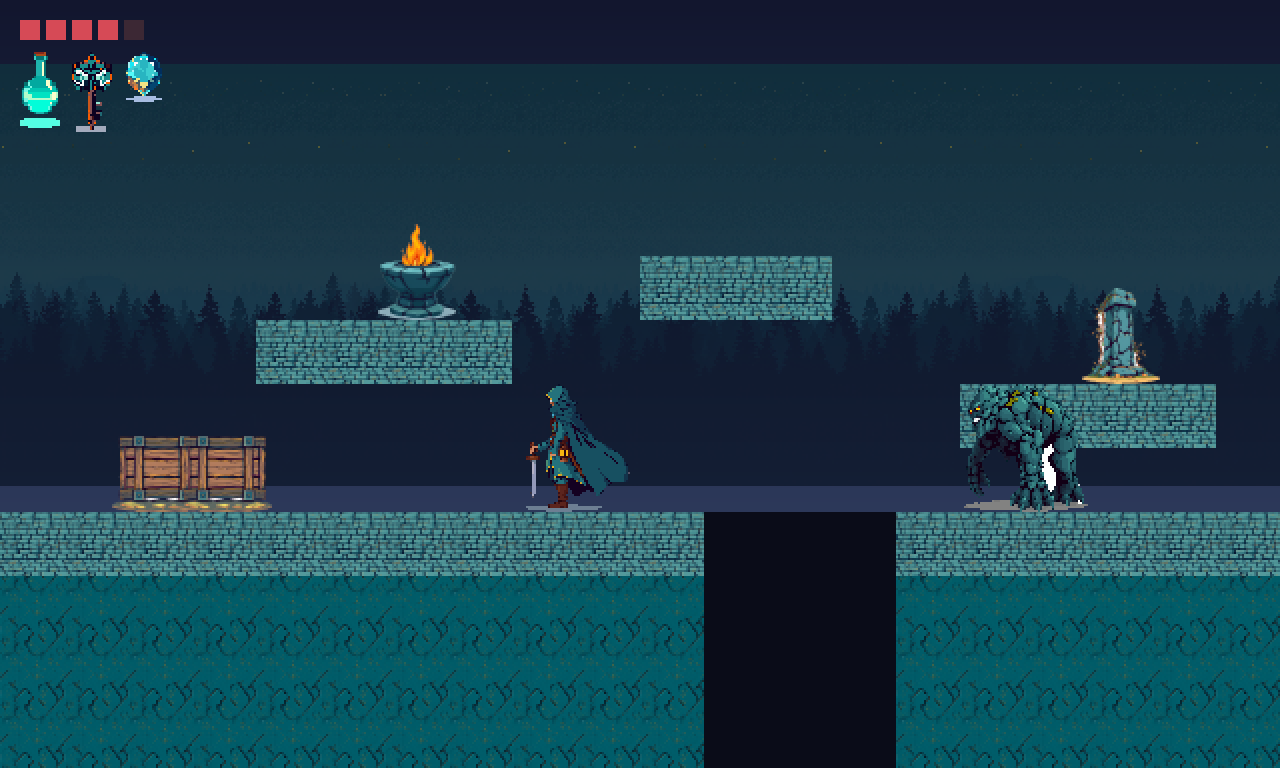
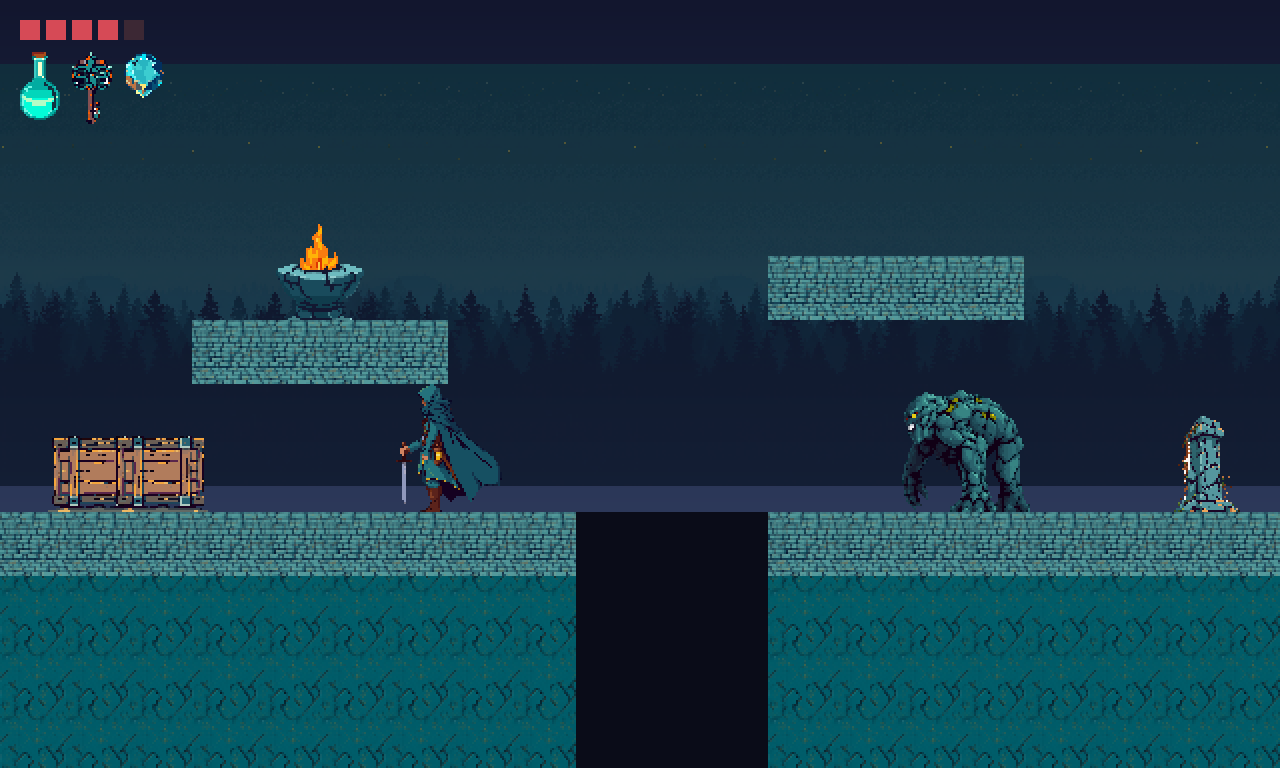
Fix contact shadows dirtying sprites and misplacing characters
Every render carried a contact shadow or plinth under the subject. It
dirtied the sprite, and because it sat below the feet it became the
bottom of the bounding box, so bottom-anchored placement rested the
shadow on the ground and the character floated above it.

The fix is to key wide enough to absorb it. A shadow on white shades
continuously out of the background, so a loose flood fill walks into it
while the subject stays outside the threshold. Default tolerance raised
from 72 to 130; measured on one render that took the sprite from 904px
tall ending in a shadow tail to 809px ending flat on the boots, with the
opaque pixel count unchanged.

A brightness-based trim handles what the key leaves. Width-based
detection was tried first and abandoned: it cannot tell a shadow from a
pair of boots, and cut the legs off a character. A magenta chroma key was
also tried and reverted, since its strong channels are red and blue and
this palette has both, so it punched holes through crates.

Also fixes the trim never firing: it ran before cropping, and the empty
rows under a subject diluted its safety guard below the threshold.

Enclosed background regions are now keyed too, so the gap between a
creature's legs no longer composites as a solid white block.

diff --git a/engines/image/scripts/pixel_art_processor.py b/engines/image/scripts/pixel_art_processor.py
@@ -452,7 +452,69 @@ def kmeans_plus_plus(
 # ---------------------------------------------------------------------------
 
 
-def key_background_to_alpha(img: Image.Image, tolerance: int = 72) -> Image.Image:
+# Chroma keys the generator can ask for, as the two channels that must dominate
+# the third. Named rather than given as RGB because the model never returns the
+# exact colour asked for -- one request for #FF00FF came back as (184,55,114) --
+# and hue dominance is what matters, not the value.
+CHROMA_KEYS = {
+    "magenta": (0, 2, 1),   # R and B over G
+    "green": (1, 1, 0),     # G over R and B  (second index unused)
+}
+
+
+def detect_chroma(rgb: np.ndarray, margin: int = 40, coverage: float = 0.5) -> str | None:
+    """Say which chroma key the border is painted in, if any."""
+    border = np.concatenate([rgb[0], rgb[-1], rgb[:, 0], rgb[:, -1]]).astype(np.int32)
+    r, g, b = border[:, 0], border[:, 1], border[:, 2]
+    if ((r - g > margin) & (b - g > margin)).mean() > coverage:
+        return "magenta"
+    if ((g - r > margin) & (g - b > margin)).mean() > coverage:
+        return "green"
+    return None
+
+
+def key_chroma_to_alpha(img: Image.Image, kind: str, margin: int = 40,
+                        contract: int = 1) -> Image.Image:
+    """Key out a chroma background by hue dominance, at any brightness.
+
+    This is why chroma keys exist, and it solves a problem no amount of
+    post-processing on a white background does. A cast shadow falling on the key
+    is a *darker version of the key colour*, so a test on hue rather than on
+    value removes the subject's shadow along with the background, in one step.
+    On a white field the same shadow is a pale grey that is not the background
+    colour, survives keying, and then has to be hunted down by heuristics that
+    cannot reliably tell a shadow from a pair of boots.
+
+    Choose a key whose strong channels are not the subject's. Magenta is the
+    default and suits the cool palettes here; use green for warm or red-dominant
+    subjects, which would otherwise lose pixels to a magenta test.
+
+    `contract` erodes the matte by a pixel to drop the key-tinted fringe around
+    the silhouette, which is cheaper and more predictable than despill.
+    """
+    rgb = np.asarray(img.convert("RGB")).astype(np.int32)
+    r, g, b = rgb[..., 0], rgb[..., 1], rgb[..., 2]
+
+    if kind == "magenta":
+        bg = (r - g > margin) & (b - g > margin)
+    elif kind == "green":
+        bg = (g - r > margin) & (g - b > margin)
+    else:
+        raise ValueError(f"unknown chroma key {kind!r}")
+
+    keep = ~bg
+    if contract > 0:
+        size = contract * 2 + 1
+        mask = Image.fromarray((keep * 255).astype(np.uint8), "L")
+        keep = np.asarray(mask.filter(ImageFilter.MinFilter(size))) > 0
+
+    out = np.dstack([rgb.astype(np.uint8), np.where(keep, 255, 0).astype(np.uint8)])
+    out[~keep] = (0, 0, 0, 0)
+    return Image.fromarray(out, "RGBA")
+
+
+def key_background_to_alpha(img: Image.Image, tolerance: int = 130,
+                            enclosed: bool = True) -> Image.Image:
     """Flood the flat background in from the border and turn it into alpha.
 
     The upstream skill asks the model for a chroma-key background and strips it
@@ -462,6 +524,16 @@ def key_background_to_alpha(img: Image.Image, tolerance: int = 72) -> Image.Imag
 
     Flood fill rather than a global colour threshold, so background-coloured
     pixels inside the subject survive.
+
+    The default tolerance is deliberately loose. A contact shadow on a white
+    field is a soft grey that shades continuously out of the background, so a
+    fill wide enough to walk into it removes the shadow as part of the
+    background, while the subject stays far outside the threshold because it is
+    darker and saturated. Measured on one render: at tolerance 72 the sprite was
+    904px tall and ended in a 2px shadow tail; at 130 it was 809px and ended
+    flat on the boots, with the opaque pixel count essentially unchanged. The
+    window from about 120 to 240 is stable; past 300 it starts eating the
+    subject.
     """
     rgb = img.convert("RGB")
     w, h = rgb.size
@@ -501,10 +573,115 @@ def key_background_to_alpha(img: Image.Image, tolerance: int = 72) -> Image.Imag
 
     filled = np.asarray(work)
     bg = np.all(filled == np.array(sentinel), axis=-1)
+    if enclosed:
+        bg = clear_enclosed_background(arr, bg, key, tolerance)
 
     out = np.dstack([arr, np.where(bg, 0, 255).astype(np.uint8)])
     out[bg] = (0, 0, 0, 0)
     return Image.fromarray(out, "RGBA")
+
+
+def _components(mask: np.ndarray):
+    """Yield 4-connected components of a boolean mask as coordinate lists."""
+    h, w = mask.shape
+    seen = np.zeros_like(mask)
+    for sy, sx in zip(*np.nonzero(mask)):
+        if seen[sy, sx]:
+            continue
+        stack, comp = [(int(sy), int(sx))], []
+        seen[sy, sx] = True
+        while stack:
+            y, x = stack.pop()
+            comp.append((y, x))
+            for ny, nx in ((y - 1, x), (y + 1, x), (y, x - 1), (y, x + 1)):
+                if 0 <= ny < h and 0 <= nx < w and mask[ny, nx] and not seen[ny, nx]:
+                    seen[ny, nx] = True
+                    stack.append((ny, nx))
+        yield comp
+
+
+def clear_enclosed_background(rgb: np.ndarray, bg: np.ndarray, key: np.ndarray,
+                              tolerance: int, min_frac: float = 0.0015) -> np.ndarray:
+    """Also key out background-coloured regions the border flood fill cannot reach.
+
+    A flood fill entering from the edge stops at the silhouette, so any hole
+    fully enclosed by the subject stays opaque: the gap between a creature's
+    front legs, the space inside a fence, the loop of a handle. Those regions
+    then composite into a scene as solid blocks of background colour.
+
+    Only regions above `min_frac` of the frame are cleared. Small specks of
+    near-white are usually genuine highlights -- an eye glint, a metal
+    specular -- and removing those would punch holes in the art.
+    """
+    near = (np.abs(rgb.astype(np.int32) - key).sum(-1) <= tolerance) & ~bg
+    if not near.any():
+        return bg
+    min_area = max(24, int(min_frac * near.size))
+    for comp in _components(near):
+        if len(comp) >= min_area:
+            ys, xs = np.array(comp).T
+            bg[ys, xs] = True
+    return bg
+
+
+def trim_ground_plinth(img: Image.Image, lighten: float = 1.25,
+                       max_frac: float = 0.22) -> Image.Image:
+    """Remove the ground shadow or plinth drawn beneath an isolated subject.
+
+    Diffusion models put a contact shadow, a dirt disc or a stone base under an
+    object even when told not to, and Flux Schnell ignores negative prompts
+    entirely so it cannot be suppressed at generation time. It survives
+    background keying because it is not the background colour, and then does two
+    kinds of damage: it dirties the sprite, and because it sits below the feet it
+    becomes the bottom of the bounding box, so bottom-anchored placement rests
+    the *shadow* on the ground and the character floats above it.
+
+    Detection is by brightness, not by shape. A shadow cast onto a white field is
+    a pale grey or tan, while the subject is darker and more saturated, and this
+    separates cleanly in practice: on one render the body averaged luminance 64
+    against 126 for the shadow rows, and on another 100 against 182. Rows are
+    removed from the bottom up while they stay far lighter than the body, and the
+    scan stops at the first row that does not qualify.
+
+    Shape-based detection was tried first and abandoned. Width alone cannot tell
+    a shadow from a pair of boots: the narrowest row in the search band is
+    usually the bottom edge of the shadow itself, and searching further up finds
+    the gap between a character's legs and cuts the legs off. Brightness does not
+    have that failure mode, because legs are as dark as the body.
+    """
+    rgba = np.asarray(img.convert("RGBA"))
+    alpha = rgba[..., 3] > 8
+    if not alpha.any():
+        return img
+
+    lum = rgba[..., :3].astype(np.float32).mean(-1)
+    h = rgba.shape[0]
+    limit = int(h * (1.0 - max_frac))
+
+    # Reference brightness from the subject proper, excluding the band that
+    # might be plinth, so a large plinth cannot drag the reference up.
+    body = alpha.copy()
+    body[limit:] = False
+    if not body.any():
+        return img
+    reference = float(np.median(lum[body])) * lighten
+
+    # Collect every row in the band that reads as plinth, then cut at the
+    # highest one. Stopping at the first row that fails going upwards is not
+    # enough: a shadow is densest, and therefore darkest, in its middle, so the
+    # scan halts partway and leaves the top of the shadow attached.
+    bright = [k for k in range(limit, h)
+              if alpha[k].any() and float(lum[k][alpha[k]].mean()) > reference]
+    if not bright:
+        return img
+
+    cut = min(bright)
+    span = h - cut
+    # Guard against a single stray bright row high in the band dragging the cut
+    # up: most of what is being removed has to look like plinth.
+    if span <= 0 or len(bright) / span < 0.6:
+        return img
+    return img.crop((0, 0, img.width, cut))
 
 
 def crop_to_content(img: Image.Image, pad: int = 0, despeckle: int = 5) -> Image.Image:
@@ -598,7 +775,8 @@ def nearest_upscale(img: Image.Image, scale: int | None = None,
 
 def process(img: Image.Image, target_size: int | None = 64, palette_size: int = 16,
             remove_background: bool = True, crop: bool = True,
-            grid: str = "detect", alpha_threshold: int = 1) -> dict:
+            grid: str = "detect", alpha_threshold: int = 1,
+            trim_plinth: bool = True) -> dict:
     """Full post-process. Returns the sprite plus what the detector decided.
 
     Upstream has no notion of a target size -- it reports whatever native
@@ -623,7 +801,27 @@ def process(img: Image.Image, target_size: int | None = 64, palette_size: int = 
 
     info: dict = {"input_size": img.size, "grid_mode": grid}
 
-    img = key_background_to_alpha(img) if remove_background else img.convert("RGBA")
+    if remove_background:
+        # Prefer a chroma key when the render has one: it takes the shadow with
+        # it. Fall back to the flood fill for plain white backgrounds, where the
+        # shadow then has to be trimmed separately and less reliably.
+        kind = detect_chroma(np.asarray(img.convert("RGB")))
+        info["key"] = kind or "flood"
+        if kind:
+            img = key_chroma_to_alpha(img, kind)
+        else:
+            img = key_background_to_alpha(img)
+            # Crop before trimming. The trim measures what fraction of the rows
+            # it is about to remove actually look like plinth, and a full frame
+            # has a band of empty rows under the subject that dilutes that
+            # fraction below the guard, so the trim silently never fires.
+            img = crop_to_content(img)
+            if trim_plinth:
+                before = img.height
+                img = trim_ground_plinth(img)
+                info["plinth_rows_removed"] = before - img.height
+    else:
+        img = img.convert("RGBA")
     if crop:
         img = crop_to_content(img)
     info["after_crop"] = img.size
@@ -660,6 +858,8 @@ def main() -> int:
                    help="also write a NEAREST preview scaled by this factor")
     p.add_argument("--keep-background", action="store_true")
     p.add_argument("--no-crop", action="store_true")
+    p.add_argument("--keep-plinth", action="store_true",
+                   help="keep the ground shadow the model drew under the subject")
     p.add_argument("--grid", choices=("detect", "force"), default="detect",
                    help="detect the native block size then resample (default), or "
                         "drive the walker at target-size cells directly")
@@ -668,7 +868,8 @@ def main() -> int:
     info = process(Image.open(args.input), target_size=args.target_size or None,
                    palette_size=args.palette_size,
                    remove_background=not args.keep_background,
-                   crop=not args.no_crop, grid=args.grid)
+                   crop=not args.no_crop, grid=args.grid,
+                   trim_plinth=not args.keep_plinth)
 
     args.output.parent.mkdir(parents=True, exist_ok=True)
     info["sprite"].save(args.output)

diff --git a/demos/moonlit_ruins/build_scene.py b/demos/moonlit_ruins/build_scene.py
@@ -64,11 +64,18 @@ def parallax(canvas: Image.Image, layer: Image.Image, y: int, opacity: float) ->
     canvas.alpha_composite(faded.crop((0, 0, canvas.width, band.height)), (0, y))
 
 
+# Ledges as (x0, x1, row). Kept clear of where the actors stand: a two-tile-tall
+# character bottom-anchored on the floor occupies the row above it too, so a
+# ledge sharing that row cuts through the sprite.
+LEDGES = ((3, 7, 5), (12, 16, 4))
+PIT = (9, 12)
+
+
 def solid(grid: np.ndarray) -> None:
-    """Mark the level geometry: floor, a pit, and three floating ledges."""
+    """Mark the level geometry: floor, a pit, and two floating ledges."""
     grid[GROUND_ROW:, :] = 1
-    grid[GROUND_ROW:, 11:14] = 0                 # pit
-    for x0, x1, y in ((4, 8, 5), (10, 13, 4), (15, 19, 6)):
+    grid[GROUND_ROW:, PIT[0]:PIT[1]] = 0
+    for x0, x1, y in LEDGES:
         grid[y, x0:x1] = 1
 
 
@@ -131,14 +138,15 @@ def main() -> int:
     solid(grid)
     draw_terrain(canvas, grid, load("ground"), load("underground"))
 
-    # Props sit on whatever surface is under them; the ledges are at rows 4-6.
-    place(canvas, load("pillar"), 17.0, 5)
-    place(canvas, load("brazier"), 6.0, 4)
+    # Props stand on whatever surface is beneath them: the brazier on the left
+    # ledge, everything else on the floor.
+    place(canvas, load("brazier"), 4.5, LEDGES[0][2] - 1)
+    place(canvas, load("crate"), 1.0, GROUND_ROW - 1)
     place(canvas, load("crate"), 2.0, GROUND_ROW - 1)
-    place(canvas, load("crate"), 3.0, GROUND_ROW - 1)
+    place(canvas, load("pillar"), 18.4, GROUND_ROW - 1)
 
-    place(canvas, load("hero"), 8.5, GROUND_ROW - 1)
-    place(canvas, load("enemy"), 15.5, GROUND_ROW - 1, flip=True)
+    place(canvas, load("hero"), 6.5, GROUND_ROW - 1)
+    place(canvas, load("enemy"), 14.6, GROUND_ROW - 1, flip=True)
 
     hud(canvas, [load("icon_potion"), load("icon_key"), load("icon_gem")])
 

diff --git a/engines/image/scripts/asset_presets.py b/engines/image/scripts/asset_presets.py
@@ -50,6 +50,18 @@ ERAS = {
     "modern": "modern indie pixel art, around 32 colours, painterly shading within a strict pixel grid",
 }
 
+# White, and keyed with a loose flood fill. Models draw a contact shadow
+# whatever the prompt says, and Flux Schnell ignores negative prompts entirely,
+# so it cannot be prevented at generation time. It is removed instead by keying
+# wide enough to walk from the white background into the soft grey of the
+# shadow; see key_background_to_alpha.
+#
+# A magenta chroma key was tried and reverted. It removes shadows perfectly,
+# because a shadow on the key is a darker shade of the key. But magenta's strong
+# channels are red and blue, and this kind of palette has both -- warm wood and
+# blue-grey stone -- so the keyer punched holes through crates and left magenta
+# fringing on stone. pixel_art_processor.key_chroma_to_alpha is still there for
+# palettes that genuinely suit one.
 CUTOUT = ("isolated as a cutout on a plain solid pure white background, "
           "no shadow, no ground patch, no platform, no text")
 
@@ -153,7 +165,8 @@ def build(preset_name, subject, era="16bit", seed=None, lora=None,
     elif p["post"] == "snap":
         info = pap.process(raw, target_size=p["target"], palette_size=p["palette"])
     else:  # box
-        keyed = pap.crop_to_content(pap.key_background_to_alpha(raw))
+        keyed = pap.key_background_to_alpha(raw)
+        keyed = pap.crop_to_content(pap.trim_ground_plinth(keyed))
         side = p["target"]
         scale = side / max(keyed.size)
         info = {"sprite": keyed.resize((max(1, round(keyed.width * scale)),

diff --git a/docs/FINDINGS.md b/docs/FINDINGS.md
@@ -161,6 +161,55 @@ A wrap at 3.45x the mean sits at the 97th percentile and well below the maximum,
 which is unremarkable. Audio steps are heavily skewed where image gradients
 across a tile edge are not. The metric now reports a percentile.
 
+### Contact shadows are a keying problem, not a shape problem
+
+Every diffusion model draws a contact shadow, a dirt disc or a stone base under
+an isolated subject regardless of the prompt, and Flux Schnell ignores negative
+prompts entirely so it cannot be suppressed at generation time. Left in, it does
+two kinds of damage: it dirties the sprite, and because it sits below the feet it
+becomes the bottom of the bounding box, so bottom-anchored placement rests the
+*shadow* on the ground and the character floats above it.
+
+What works is keying wide enough to absorb it. A shadow on white is a soft grey
+that shades continuously out of the background, so a flood fill with a loose
+tolerance walks straight into it, while the subject stays outside the threshold
+because it is darker and saturated. On one render:
+
+| Flood-fill tolerance | Sprite height | Bottom rows |
+|---|---|---|
+| 72 | 904px | 0, 0, 1, 2 (shadow tail) |
+| 130 | 809px | 48, 48, 49 (flat on the boots) |
+
+The opaque pixel count barely moved, so it removed the shadow and nothing else.
+The stable window is roughly 120 to 240; past 300 it starts eating the subject.
+The default is now 130.
+
+Two other approaches were tried and are worth knowing about.
+
+**Shape-based trimming, partially kept.** Scanning the alpha for the point where
+the subject narrows to its contact point and the plinth widens again does work,
+but width alone cannot tell a shadow from a pair of boots: the narrowest row in
+the search band is usually the bottom edge of the shadow itself, and searching
+further up the sprite finds the gap between a character's legs and cuts the legs
+off. Switching the test from width to *brightness* removes that failure mode,
+because legs are as dark as the body while a shadow on white is not. It survives
+as a second pass for whatever the loose key leaves behind.
+
+**A magenta chroma key, tried and reverted.** It removes shadows perfectly, since
+a shadow on the key is a darker shade of the key and a hue test catches it at any
+brightness. But the key's strong channels must not be the subject's, and
+magenta's are red and blue, which a palette of warm wood and blue-grey stone both
+have: the keyer punched holes straight through crates and left magenta fringing
+on stone. The implementation is kept for palettes that genuinely suit one.
+
+### Crop before measuring anything about the bottom of a sprite
+
+The brightness trim above silently did nothing for a full day of debugging. It
+guards against over-trimming by requiring that most of the rows it is about to
+remove look like plinth, and on an uncropped frame the band of empty rows beneath
+the subject dilutes that fraction below the guard. Cropping to content first
+fixed every case at once.
+
 ### A theme phrase must describe palette, not setting
 
 Generating a coherent pack means repeating a shared phrase across every subject.
